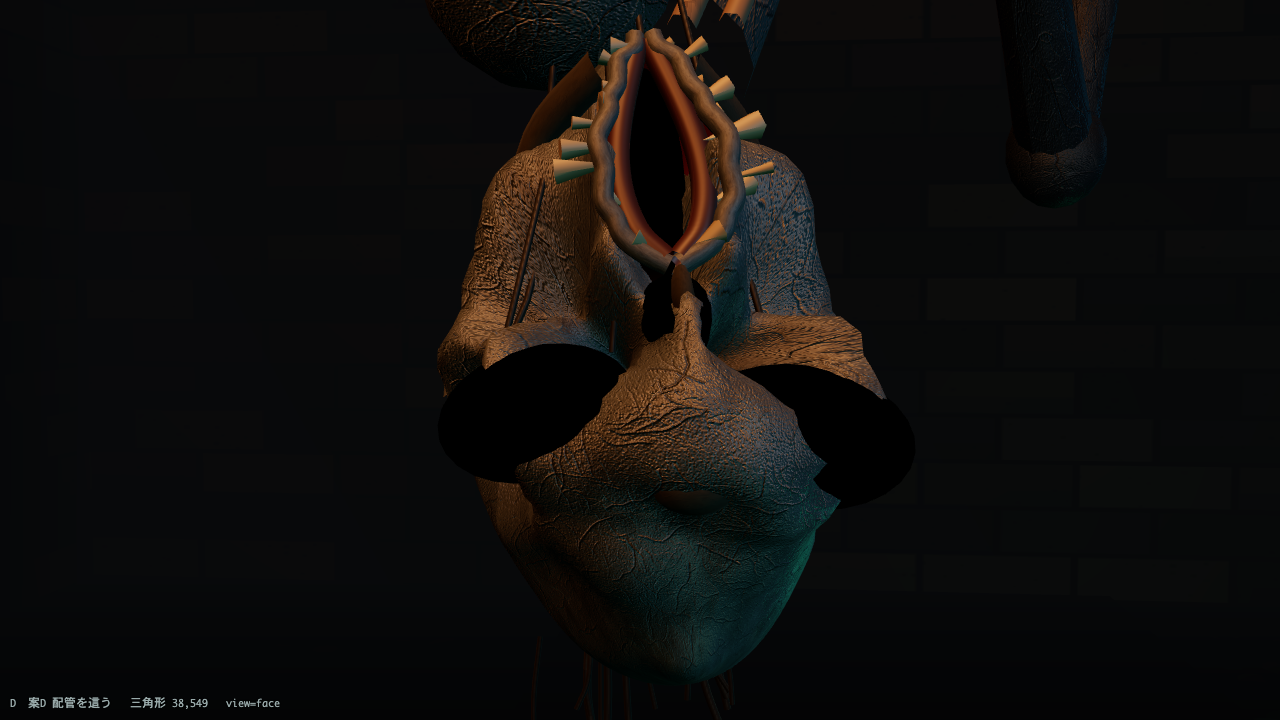
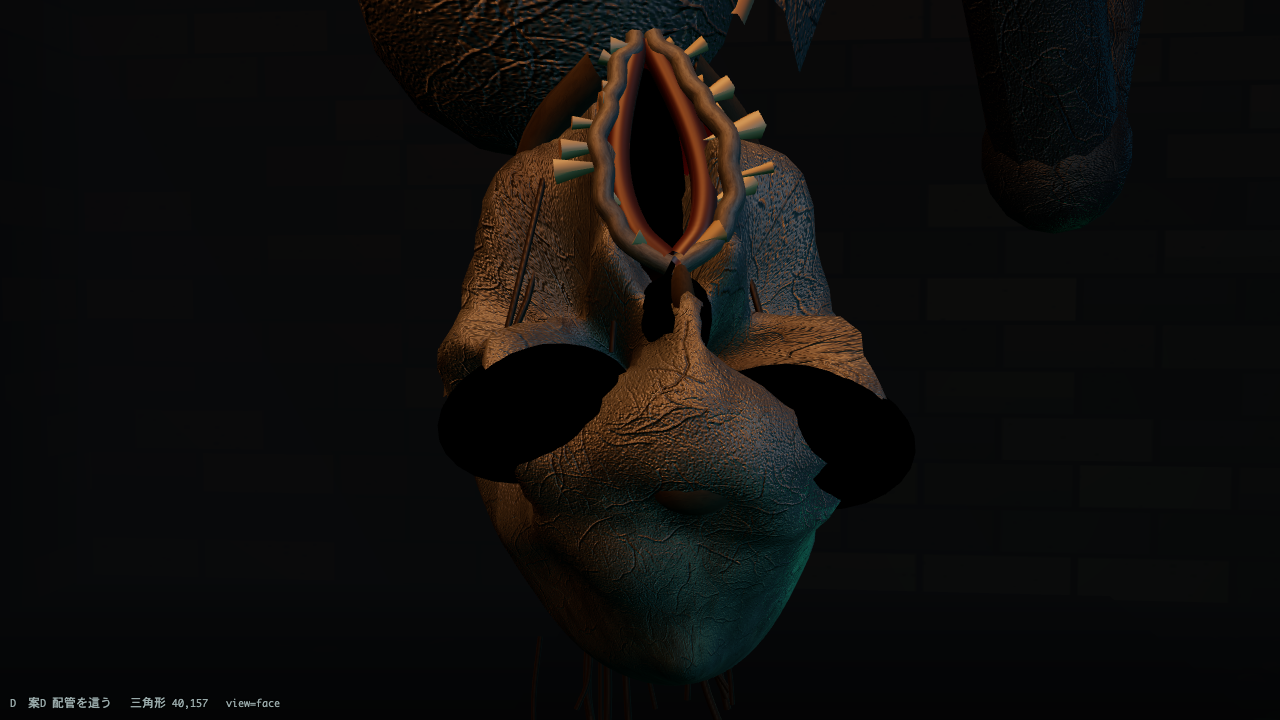
P5e-1 差し戻し: 案D 体を太く（full/face/corridor）
ユーザー評「体が細すぎる」への対応（契約 §4 P5e-1 目視差し戻し）
- 胴の断面を 1.8 倍（0.118/0.100 → 0.212/0.180）。肋・棘突起・背骨・腹の
  彫りを新しい断面に合わせて拡大し、骨が浮く量を保った
- 各肢の太さを 1.6 倍（根元 0.068→0.109／先端 0.026→0.042）。節の中央の
  括れを 26%→10% に浅くしてソーセージ状を回避、関節の瘤は肢に対して
  1.2〜1.32 倍に抑えつつ実寸では倍以上に
- 肩と骨盤の塊を幅のある楕円体（0.178/0.128/0.168）へ差し替え、稜と歪みで
  胴に溶かす。首も 0.048→0.074 に
- 配管に絡む重量感: 配管と並走管・バンド・吊りボルトが個体の真下で
  最大 5.2cm たわむ（sag 関数）／掴む手を 2.05 倍にし指の巻き込みを
  強めて配管に食い込ませた
- 多関節・逆さの顔・縦裂の口は現行のまま

顔の寄りの中央値輝度 9（v4_face.png=10）／三角形 40,157

diff --git a/audit/enemy-mocks-a2/3d/mock_D.js b/audit/enemy-mocks-a2/3d/mock_D.js
@@ -234,7 +234,7 @@
       geo.translate(0, len / 2, 0);
       L.deform(geo, function (x, y, z, o) {
         var t = L.clamp(y / len, 0, 1), r = ra + (rb - ra) * t;
-        r *= 1 - 0.26 * Math.sin(Math.PI * Math.pow(t, 0.9));   /* 中央が細る＝骨と皮 */
+        r *= 1 - 0.10 * Math.sin(Math.PI * Math.pow(t, 0.9));   /* 中央が僅かに細る */
         var d = Math.sqrt(x * x + z * z) || 1;
         o[0] = x / d * r; o[2] = z / d * r;
       });
@@ -244,7 +244,7 @@
       mm.quaternion.setFromUnitVectors(new THREE.Vector3(0, 1, 0), new THREE.Vector3(dx / len, dy / len, dz / len));
       g.add(mm);
       if (i > 0) {
-        g.add(L.m(L.ell(ra * 1.30, ra * 1.46, ra * 1.26, 12), M.skin, a));   /* 関節の骨の瘤 */
+        g.add(L.m(L.ell(ra * 1.20, ra * 1.32, ra * 1.18, 12), M.skin, a));   /* 関節の骨の瘤 */
         g.add(L.m(L.tube([[a[0], a[1] - ra, a[2]],
           [a[0] + dx * 0.22, a[1] + dy * 0.22 - ra * 0.6, a[2] + dz * 0.22]], ra * 0.20, 5), M.sinew));
       }
@@ -268,12 +268,12 @@
         var seg = L.m(L.seg(0.0100 * k - j * 0.0018, 0.0084 * k - j * 0.0018, l2, 8), M.skin, [px, py, pz]);
         seg.rotation.order = 'ZXY';
         seg.rotation.z = a0 * 0.55 + Math.PI;
-        seg.rotation.x = -(0.58 + j * 0.58);
+        seg.rotation.x = -(0.72 + j * 0.74);   /* 配管へ深く巻き込む＝指が食い込む */
         h.add(seg);
         h.add(L.m(L.ell(0.0116 * k - j * 0.0018, 0.0102 * k, 0.0110 * k - j * 0.0018, 9), M.skin, [px, py, pz]));
         py -= l2 * 0.72 * Math.cos(j * 0.5); pz -= l2 * 0.52;
         if (j === 2) h.add(L.m(L.ell(0.0064 * k, 0.0130 * k, 0.0052 * k, 7), M.nail,
-          [px, py - 0.006 * k, pz - 0.008 * k], [0.9, 0, 0]));
+          [px, py - 0.004 * k, pz - 0.004 * k], [0.9, 0, 0]));
       }
     }
     h.position.set(at[0], at[1], at[2]);
@@ -286,42 +286,45 @@
 
     /* ---- 天井の太い配管＋吊りバンド ---- */
     var pipe = new THREE.Group();
-    var pg = new THREE.CylinderGeometry(PIPE_R, PIPE_R, 9.4, 20, 1);
+    function sag(x) { return -0.052 * Math.exp(-Math.pow((x + 0.20) / 1.9, 2)); }
+    var pg = new THREE.CylinderGeometry(PIPE_R, PIPE_R, 9.4, 20, 24);
     pg.rotateZ(Math.PI / 2);
+    L.deform(pg, function (x, y, z, o) { o[1] = y + sag(x); });
     pipe.add(L.m(pg, M.pipe, [0, PIPE_Y, 0]));
     for (var i = -3; i <= 3; i++) {
-      pipe.add(L.m(new THREE.TorusGeometry(PIPE_R + 0.022, 0.024, 7, 20), M.pipe, [i * 1.35, PIPE_Y, 0], [0, Math.PI / 2, 0]));
-      pipe.add(L.m(new THREE.BoxGeometry(0.05, 0.9, 0.05), M.bolt, [i * 1.35, PIPE_Y + 0.55, 0]));
+      pipe.add(L.m(new THREE.TorusGeometry(PIPE_R + 0.022, 0.024, 7, 20), M.pipe, [i * 1.35, PIPE_Y + sag(i * 1.35), 0], [0, Math.PI / 2, sag(i * 1.35) * 1.2]));
+      pipe.add(L.m(new THREE.BoxGeometry(0.05, 0.9 - sag(i * 1.35), 0.05), M.bolt, [i * 1.35, PIPE_Y + 0.55 + sag(i * 1.35) * 0.5, 0]));
     }
-    var pg2 = new THREE.CylinderGeometry(0.075, 0.075, 9.4, 12, 1); pg2.rotateZ(Math.PI / 2);
+    var pg2 = new THREE.CylinderGeometry(0.075, 0.075, 9.4, 12, 20); pg2.rotateZ(Math.PI / 2);
+    L.deform(pg2, function (x, y, z, o) { o[1] = y + sag(x) * 0.7; });
     pipe.add(L.m(pg2, M.pipe, [0, PIPE_Y + 0.30, 0.34]));
     root.add(pipe);
 
     /* ---- 胴: 配管の下に張り付く長い胴。棘突起・肋・骨盤が浮く ---- */
     var torso = new THREE.SphereGeometry(1, 46, 30);
-    torso.scale(0.72, 0.118, 0.100);
+    torso.scale(0.72, 0.212, 0.180);
     L.deform(torso, function (x, y, z, o) {
       var nx = x / 0.72;
       var k = 1 - 0.58 * Math.pow(Math.abs(nx), 3.0);
       k *= 1 + 0.36 * Math.exp(-Math.pow((nx - 0.50) * 3.0, 2));
       k *= 1 + 0.24 * Math.exp(-Math.pow((nx + 0.55) * 3.2, 2));
       k *= 1 - 0.36 * Math.exp(-Math.pow((nx + 0.02) * 4.2, 2));
-      o[1] = y * k - 0.034 * Math.pow(Math.abs(nx), 2);
+      o[1] = y * k - 0.050 * Math.pow(Math.abs(nx), 2);
       o[2] = z * k * (1 + 0.10 * Math.sin(nx * 2.1));       /* 胴が捻れる */
       o[0] = x;
     });
     for (var r = 0; r < 9; r++) {
       var rx2 = 0.42 - r * 0.066;
-      L.ridge(torso, [rx2, -0.11, -0.10], [rx2 + 0.018, 0.02, 0.10], 0.028, 0.0145, 1.5);
-      L.ridge(torso, [rx2 + 0.033, -0.115, -0.02], [rx2 + 0.043, -0.06, 0.09], 0.022, -0.0068, 1.4);
+      L.ridge(torso, [rx2, -0.19, -0.17], [rx2 + 0.020, 0.04, 0.17], 0.046, 0.0235, 1.5);
+      L.ridge(torso, [rx2 + 0.033, -0.195, -0.03], [rx2 + 0.043, -0.10, 0.15], 0.036, -0.0110, 1.4);
     }
-    L.ridge(torso, [0.66, 0.084, 0.00], [-0.68, 0.078, 0.00], 0.032, 0.0175, 1.3);
+    L.ridge(torso, [0.66, 0.150, 0.00], [-0.68, 0.140, 0.00], 0.050, 0.0280, 1.3);
     for (var v = 0; v < 13; v++) {
-      L.bulge(torso, [0.60 - v * 0.104, 0.100, 0.0], 0.021, 0.0088);      /* 棘突起 */
+      L.bulge(torso, [0.60 - v * 0.104, 0.180, 0.0], 0.034, 0.0145);      /* 棘突起 */
     }
-    L.ridge(torso, [0.18, -0.120, -0.02], [-0.42, -0.115, -0.02], 0.028, -0.0112, 1.4);
-    L.warp(torso, 0.0080, 6, 8);
-    root.add(L.m(torso, M.skin, [-0.20, PIPE_Y - 0.30, -0.04], [0.12, 0, -0.06]));
+    L.ridge(torso, [0.18, -0.205, -0.03], [-0.42, -0.200, -0.03], 0.046, -0.0180, 1.4);
+    L.warp(torso, 0.0130, 6, 8);
+    root.add(L.m(torso, M.skin, [-0.20, PIPE_Y - 0.40, -0.04], [0.12, 0, -0.06]));
 
     /* ---- 四肢（各4節・関節3つ以上）: 配管に絡みつく ---- */
     var limbs = [
@@ -331,16 +334,19 @@
       [[-0.66, 2.42, 0.06], [-1.04, 1.98, 0.56], [-1.36, 2.74, 0.56], [-1.48, 2.94, 0.14], [-1.42, 2.86, -0.18]]
     ];
     limbs.forEach(function (pts, i) {
-      chain(root, M, pts, 0.068 - (i > 1 ? 0.006 : 0), 0.026);
+      chain(root, M, pts, 0.109 - (i > 1 ? 0.010 : 0), 0.042);
       var e = pts[pts.length - 1], d = pts[pts.length - 2];
-      grip(root, M, e, [0.2 + i * 0.1, Math.atan2(e[0] - d[0], e[2] - d[2]), 0.1 * (i % 2 ? 1 : -1)], 500 + i * 7, 1.0);
+      grip(root, M, e, [0.2 + i * 0.1, Math.atan2(e[0] - d[0], e[2] - d[2]), 0.1 * (i % 2 ? 1 : -1)], 500 + i * 7, 2.05);
     });
-    [[0.34, 2.48, -0.02], [-0.64, 2.42, 0.00]].forEach(function (p) {
-      root.add(L.m(L.ell(0.098, 0.074, 0.106, 16), M.skin, p));
+    [[0.36, 2.44, -0.02, 1.00], [-0.66, 2.38, 0.00, 0.92]].forEach(function (p) {
+      var gm = L.ell(0.178 * p[3], 0.128 * p[3], 0.168 * p[3], 18);
+      L.ridge(gm, [0.10, 0.06, -0.14], [0.16, -0.08, 0.12], 0.10, 0.012, 1.5);
+      L.warp(gm, 0.010, 8, 60 + p[0] * 10);
+      root.add(L.m(gm, M.skin, [p[0], p[1], p[2]]));
     });
 
     /* ---- 首（逆さに垂れる）と頭 ---- */
-    var nk = L.tube([[0.40, 2.44, -0.04], [0.46, 2.22, -0.24], [0.52, 2.00, -0.46], [0.555, 1.88, -0.58]], 0.048, 12);
+    var nk = L.tube([[0.40, 2.42, -0.04], [0.46, 2.20, -0.24], [0.52, 1.99, -0.46], [0.555, 1.88, -0.58]], 0.074, 12);
     L.ridge(nk, [0.40, 2.42, -0.08], [0.55, 1.90, -0.60], 0.024, 0.007, 1.6);
     root.add(L.m(nk, M.skin));
     var hd = head(M);
